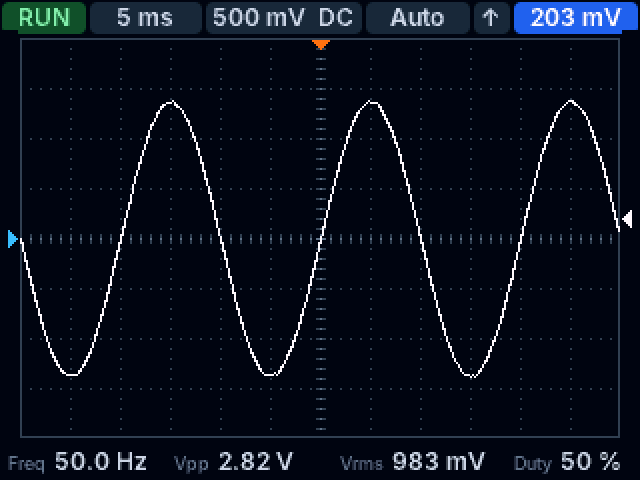
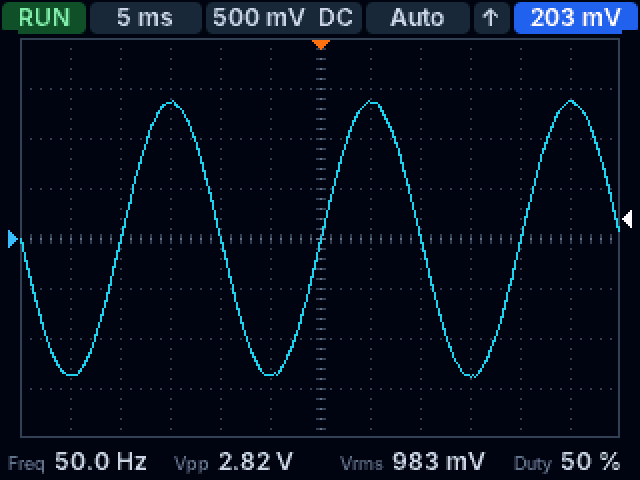
1.0.0: selectable trace color
- Settings menu: trace color (white, yellow, cyan, green, orange, pink),
  stored in a former reserved byte so existing settings stay valid
- Frames report the color, the live view draws the trace in the same color
- README and previews updated

Claude-Session: https://claude.ai/code/session_01Gv5Aj3PtjHaRuvx5Ypizcv

diff --git a/web/src/scope.js b/web/src/scope.js
@@ -69,6 +69,9 @@ export function si(value, unit, digits = 3) {
 	return `${x.toFixed(d)} ${sym}${unit}`;
 }
 
+/** Same order as the firmware's trace palette (settings menu). */
+export const TRACE_COLORS = ['#f8fafc', '#facc15', '#22d3ee', '#4ade80', '#fb923c', '#f472b6'];
+
 /** Draws a 12 x 8 division scope screen in the firmware's colors. */
 export function draw(canvas, frame) {
 	const ctx = canvas.getContext('2d');
@@ -110,7 +113,7 @@ export function draw(canvas, frame) {
 	ctx.stroke();
 	ctx.setLineDash([]);
 
-	ctx.strokeStyle = '#f8fafc';
+	ctx.strokeStyle = TRACE_COLORS[frame.color] || TRACE_COLORS[0];
 	ctx.lineWidth = 1.5;
 	ctx.lineJoin = 'round';
 	ctx.beginPath();

diff --git a/src/ui.cpp b/src/ui.cpp
@@ -41,6 +41,19 @@ Chip chips[CH_COUNT] = {
 	{257, 62, "", 0xFF},
 };
 
+const uint16_t TRACE_COLORS[TRACE_COLOR_COUNT] = {
+	0xFFDF,  // #F8FAFC white
+	0xFE62,  // #FACC15 yellow
+	0x269D,  // #22D3EE cyan
+	0x4EF0,  // #4ADE80 green
+	0xFC87,  // #FB923C orange
+	0xF396,  // #F472B6 pink
+};
+
+uint16_t traceColor(uint8_t i) {
+	return TRACE_COLORS[i < TRACE_COLOR_COUNT ? i : 0];
+}
+
 enum ChipStyle : uint8_t { ST_NORMAL, ST_FOCUS, ST_OK, ST_WARN, ST_ERR, ST_INFO };
 
 uint16_t gridColor(int16_t rx, int16_t ry) {
@@ -130,7 +143,7 @@ int16_t triggerColumn(const Settings &s) {
 	return MID_X + s.hpos;
 }
 
-void splash() {
+void splash(uint8_t color) {
 	Tft::fillScreen(C_BG);
 	const int16_t y = 84;
 	Gfx::textBox(FONT_L, "DSO138", 0, y, LCD_W, ALIGN_CENTER, C_WHITE, C_BG);
@@ -141,7 +154,7 @@ void splash() {
 	static const int8_t WAVE[] = {0, 3, 5, 6, 5, 3, 0, -3, -5, -6, -5, -3};
 	for (int16_t x = 0; x < 96; x++) {
 		int16_t yy = y - 18 + WAVE[x % 12];
-		Tft::fillRect(LCD_W / 2 - 48 + x, yy, 1, 2, C_TRACE);
+		Tft::fillRect(LCD_W / 2 - 48 + x, yy, 1, 2, traceColor(color));
 	}
 }
 
@@ -191,6 +204,7 @@ void trace(const View &v) {
 	const bool oneToOne = !f.roll && f.dt > pxTime * 0.999f && f.dt < pxTime * 1.001f;
 	const float step = pxTime / f.dt;
 	const bool gnd = f.coupling == CPL_GND;
+	const uint16_t color = traceColor(s.traceColor);
 
 	// Pass 1: row per column, -1 where there is no data
 	static int16_t rows[GRID_W];
@@ -254,7 +268,7 @@ void trace(const View &v) {
 			}
 		}
 		if (top >= 0) {
-			Tft::fillRect(GRID_X + x, GRID_Y + top, 1, bot - top + 1, C_TRACE);
+			Tft::fillRect(GRID_X + x, GRID_Y + top, 1, bot - top + 1, color);
 		}
 		oldTop[x] = top;
 		oldBot[x] = bot;

diff --git a/src/i18n.cpp b/src/i18n.cpp
@@ -19,6 +19,8 @@ const char *const EN_US[STR_COUNT] = {
 	"Timebase", "Trigger mode", "Trigger edge", "Trigger level", "Vertical position",
 	"Trigger position",
 	"Open source, MIT license",
+	"Trace color",
+	"White", "Yellow", "Cyan", "Green", "Orange", "Pink",
 };
 
 const char *const EN_GB[STR_COUNT] = {
@@ -35,6 +37,8 @@ const char *const EN_GB[STR_COUNT] = {
 	"Timebase", "Trigger mode", "Trigger edge", "Trigger level", "Vertical position",
 	"Trigger position",
 	"Open source, MIT licence",
+	"Trace colour",
+	"White", "Yellow", "Cyan", "Green", "Orange", "Pink",
 };
 
 const char *const DE[STR_COUNT] = {
@@ -51,6 +55,8 @@ const char *const DE[STR_COUNT] = {
 	"Zeitbasis", "Triggermodus", "Triggerflanke", "Triggerpegel", "Vertikale Position",
 	"Triggerposition",
 	"Open Source, MIT-Lizenz",
+	"Spurfarbe",
+	"Weiß", "Gelb", "Cyan", "Grün", "Orange", "Pink",
 };
 
 const char *const ES[STR_COUNT] = {
@@ -67,6 +73,8 @@ const char *const ES[STR_COUNT] = {
 	"Base de tiempo", "Modo de disparo", "Flanco", "Nivel de disparo", "Posición vertical",
 	"Posición del disparo",
 	"Código abierto, licencia MIT",
+	"Color de traza",
+	"Blanco", "Amarillo", "Cian", "Verde", "Naranja", "Rosa",
 };
 
 const char *const FR[STR_COUNT] = {
@@ -84,6 +92,8 @@ const char *const FR[STR_COUNT] = {
 	"Base de temps", "Mode de déclenchement", "Front", "Niveau de déclenchement",
 	"Position verticale", "Position du déclenchement",
 	"Open source, licence MIT",
+	"Couleur de trace",
+	"Blanc", "Jaune", "Cyan", "Vert", "Orange", "Rose",
 };
 
 const char *const *const TABLES[LANG_COUNT] = {EN_US, EN_GB, DE, ES, FR};

diff --git a/src/main.cpp b/src/main.cpp
@@ -17,7 +17,7 @@ namespace {
 enum Screen : uint8_t { SCR_SCOPE, SCR_MENU, SCR_ZERO, SCR_ABOUT };
 
 enum MenuEntry : uint8_t {
-	MI_LANGUAGE, MI_MEASURE, MI_ZERO, MI_CENTER, MI_FACTORY, MI_ABOUT, MI_BACK, MI_COUNT
+	MI_LANGUAGE, MI_MEASURE, MI_COLOR, MI_ZERO, MI_CENTER, MI_FACTORY, MI_ABOUT, MI_BACK, MI_COUNT
 };
 
 constexpr uint32_t SWITCH_POLL_MS = 100;
@@ -175,6 +175,8 @@ void sendFrame() {
 	putInt(f.roll);
 	hal::serialWrite(" col=");
 	putInt(Ui::triggerColumn(cfg));
+	hal::serialWrite(" color=");
+	putInt(cfg.traceColor);
 	hal::serialWrite("\r\n");
 	for (uint16_t i = 0; i < f.n; i++) {
 		putInt(f.s[i]);
@@ -246,6 +248,7 @@ void drawMenu() {
 	Ui::MenuItem items[MI_COUNT] = {
 		{I18n::tr(S_LANGUAGE), I18n::langName(cfg.language)},
 		{I18n::tr(S_MEASUREMENTS), I18n::tr(cfg.showMeasurements ? S_ON : S_OFF)},
+		{I18n::tr(S_TRACE_COLOR), I18n::tr(Str(S_COL_WHITE + cfg.traceColor % TRACE_COLOR_COUNT))},
 		{I18n::tr(S_ZERO_CAL), nullptr},
 		{I18n::tr(S_CENTER), nullptr},
 		{I18n::tr(S_FACTORY), nullptr},
@@ -291,6 +294,11 @@ void menuActivate() {
 		break;
 	case MI_MEASURE:
 		cfg.showMeasurements = !cfg.showMeasurements;
+		markDirty();
+		drawMenu();
+		break;
+	case MI_COLOR:
+		cfg.traceColor = (cfg.traceColor + 1) % TRACE_COLOR_COUNT;
 		markDirty();
 		drawMenu();
 		break;
@@ -525,7 +533,7 @@ int main() {
 	Storage::load(cfg);
 	I18n::set(cfg.language);
 	Acq::begin();
-	Ui::splash();
+	Ui::splash(cfg.traceColor);
 	hal::delayMs(1200);
 
 	Acq::Switches sw = Acq::readSwitches();

diff --git a/tools/sim/sim.cpp b/tools/sim/sim.cpp
@@ -109,7 +109,7 @@ int main(int argc, char **argv) {
 	I18n::set(lang);
 	cfg.language = lang;
 
-	Ui::splash();
+	Ui::splash(cfg.traceColor);
 	snprintf(path, sizeof path, "%s/01_boot.ppm", dir); save(path);
 
 	// 1 kHz test signal (3.3 V square) at 1 V/div, 0.2 ms/div
@@ -124,6 +124,7 @@ int main(int argc, char **argv) {
 	cfg.timebase = 8;
 	cfg.trigLevel = 40;
 	cfg.vpos = 0;
+	cfg.traceColor = 2;  // cyan, shows the color option
 	synth(SINE, 50, 1.4f, 0, RNG_500mV, 0.03f);
 	snprintf(path, sizeof path, "%s/03_sine.ppm", dir);
 	scope(path, RNG_500mV, RS_RUN, FOCUS_LEVEL);
@@ -148,13 +149,14 @@ int main(int argc, char **argv) {
 	Ui::MenuItem items[] = {
 		{I18n::tr(S_LANGUAGE), I18n::langName(lang)},
 		{I18n::tr(S_MEASUREMENTS), I18n::tr(S_ON)},
+		{I18n::tr(S_TRACE_COLOR), I18n::tr(S_COL_WHITE)},
 		{I18n::tr(S_ZERO_CAL), nullptr},
 		{I18n::tr(S_CENTER), nullptr},
 		{I18n::tr(S_FACTORY), nullptr},
 		{I18n::tr(S_ABOUT), nullptr},
 		{I18n::tr(S_BACK), nullptr},
 	};
-	Ui::menu(I18n::tr(S_MENU), items, 7, 2);
+	Ui::menu(I18n::tr(S_MENU), items, 8, 2);
 	snprintf(path, sizeof path, "%s/05_menu.ppm", dir); save(path);
 
 	Ui::layout();

diff --git a/src/model.h b/src/model.h
@@ -62,10 +62,14 @@ struct Settings {
 	int16_t hpos;                    // trigger column offset from the grid center (px)
 	int16_t zero[RANGE_COUNT];       // ADC count at 0 V for each range
 	uint8_t showMeasurements;
-	uint8_t reserved[3];
+	uint8_t traceColor;              // index into the trace palette
+	uint8_t reserved[2];
 };
 
 void settingsDefaults(Settings &s);
+
+/** Trace colors selectable in the settings menu (white is the default). */
+constexpr uint8_t TRACE_COLOR_COUNT = 6;
 
 // ---------------------------------------------------------------------------
 // Captured frame

diff --git a/src/i18n.h b/src/i18n.h
@@ -19,6 +19,8 @@ enum Str : uint8_t {
 	S_HINT_SEL, S_HINT_OK,
 	S_FOCUS_TB, S_FOCUS_MODE, S_FOCUS_EDGE, S_FOCUS_LEVEL, S_FOCUS_VPOS, S_FOCUS_HPOS,
 	S_LICENSE,
+	S_TRACE_COLOR,
+	S_COL_WHITE, S_COL_YELLOW, S_COL_CYAN, S_COL_GREEN, S_COL_ORANGE, S_COL_PINK,
 	STR_COUNT
 };
 

diff --git a/src/board.h b/src/board.h
@@ -10,7 +10,7 @@
 #endif
 
 #define FW_NAME    "DSO138 Open"
-#define FW_VERSION "0.2.2"
+#define FW_VERSION "1.0.0"
 
 // ---------------------------------------------------------------------------
 // TFT (ILI9341, 8-bit parallel 8080 bus)

diff --git a/src/model.cpp b/src/model.cpp
@@ -27,5 +27,6 @@ void settingsDefaults(Settings &s) {
 	s.hpos = 0;
 	for (auto &z : s.zero) z = 2060;  // about 1.66 V at the ADC input
 	s.showMeasurements = 1;
+	s.traceColor = 0;
 	for (auto &r : s.reserved) r = 0;
 }

diff --git a/src/ui.h b/src/ui.h
@@ -27,7 +27,7 @@ struct View {
 
 namespace Ui {
 
-void splash();
+void splash(uint8_t traceColor);
 
 /** Clears the screen and draws the static layout; forgets the old trace. */
 void layout();

diff --git a/README.md b/README.md
@@ -27,7 +27,9 @@ Written from scratch and MIT licensed.
 - Zero calibration for all nine input ranges, stored in flash.
 - Settings stored in the last flash page with wear levelling.
 - Serial interface on J5 (115200 8N1) with waveform export.
-- Anti-aliased Inter fonts and a Tailwind/Preline slate palette.
+- Anti-aliased Inter fonts and a Tailwind/Preline slate palette; trace color
+  selectable in the settings (white, yellow, cyan, green, orange, pink).
+- Updates from the browser without jumpers, calibration and settings are kept.
 - Languages: English (US), English (UK), German, Spanish, French.
 
 ## Controls
@@ -134,8 +136,9 @@ select the range. Settings live in flash page 63 (0x0800FC00).
 
 ## Status
 
-Tested on a 109-13800-00C board: display, timer modes, trigger, measurements,
-zero calibration, flasher and live view work. The interleaved 10/20 µs/div
+1.0.0, tested on a 109-13800-00C board: display, timer modes, trigger,
+measurements, zero calibration, flasher (including jumper-free updates) and
+live view work. The interleaved 10/20 µs/div
 mode and roll mode still need more real-world testing.
 
 ## License
